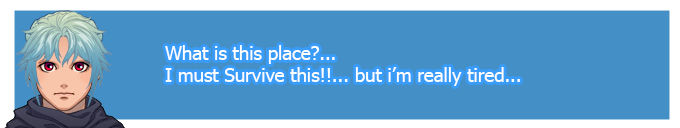
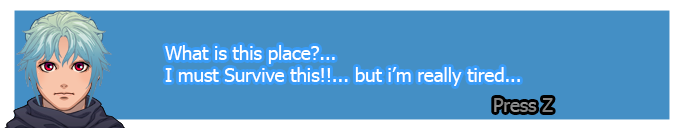
before beta

Changed region(s): [[0.7103, 0.7188, 0.8338, 0.9062]]

diff --git a/src/gamePackage/MainGame.java b/src/gamePackage/MainGame.java
@@ -223,9 +223,9 @@ public class MainGame extends BasicGame{
 	}
 
 	private void goddessController(GameContainer container, Input input) {
-		if(swordman.shape.intersects(goddess.shape) && input.isKeyPressed(Input.KEY_Z)){
+		if(swordman.shape.intersects(goddess.shape) && input.isKeyDown(Input.KEY_Z)){
 			 //container.setPaused(true);
-			 goddess.x = (float) Math.random()*550;
+			 goddess.x = (float) Math.random()*600;
 			 times = 30;
 		 }
 		goddess.shape.setLocation(goddess.getX(),goddess.getY());

diff --git a/src/gamePackage/BackGround.java b/src/gamePackage/BackGround.java
@@ -25,7 +25,7 @@ public class BackGround {
 	    {image = new Image("res/dark.png");}
 	    if(name == "goddess")
 	    {
-	    	shape = new Rectangle(x, y, 32, MainGame.BASIC_SIZE*3);
+	    	shape = new Rectangle(x, y, 32, MainGame.BASIC_SIZE);
 	    	image = new Image("res/fairy1.png");	
 	    }
 	    this.mass = 1;
